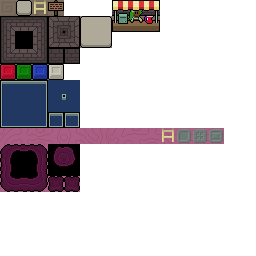
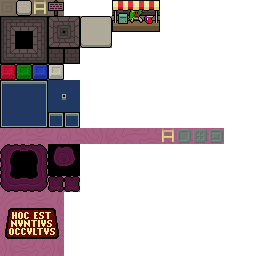
hidden message in sea monster, and repair labyrinth back door

Changed region(s): [[0.0, 0.75, 0.25, 1.0]]

diff --git a/README.md b/README.md
@@ -51,22 +51,14 @@ Requires [Egg](https://github.com/aksommerville/egg2) to build.
 - [ ] Poker at the casino. UI in place and activity ready to write.
 - [ ] Blackjack at the casino. UI in place and activity ready to write.
 - [ ] Broom Races story: I really dislike the picture for the second (?) frame: "Some witches race on their brooms".
-- [x] Credits roll and `song:bloomful_rejoicement` after strangling the last root devil. (play the cutscene first?)
-- [x] Casino arcade should pay out much less, maybe like `wager+difficulty`.
 - [ ] Some fireworks when an animal gets captured.
-- [x] `race:downstairs_lake` uses darkness and firepots in story mode. Do we want that in Broom Race mode too? We don't currently have, and it would take some doing.
-- - [x] Also the sirens in `race:seaside_circle`. And that might be a lighter lift.
-- - ...decline for darkness, but we are now spawning static sprites like siren and jigpiece.
 - [ ] Revise `race.c:race_render_overlay()` re multiplayer. Show both players' lap and time, and don't print it in the middle at the end.
-- [x] Settings modal, via Hello.
-- [x] Roll credits via Hello.
-- [x] Add some match vendors downstairs.
-- [x] Once per session, before entering any 2-player mode, prompt users to tell us who is left and who is right.
 - [ ] BEFORE GDEX: Make the meadow zoo include all local rsprite. Add to the zoo or remove from rsprite, whatever, just make them match.
 - - And are there any others with dangling non-zoo rsprite?
 - [ ] If you strangle the temple's root devil last, we incorrectly play `smoke_and_mirrors` after the credit roll instead of `minotaur`. Rights itself when you go inside.
 - - Does it matter? This would be a little tricky to fix, because `g.song_override_outerworld` doesn't record the actual song doing the overriding, and we definitely do want `bloomful_rejoicement` temporarily.
 - [ ] If you collect the last jigpiece in a non-story broom race, does the cutscene play? Does the flag get set? And do we want the cutscene to play? This would be extremely unusual, but do check.
+- [ ] Some moving or at least animated things where you get the stopwatch, so you can see it work.
 
 - Challenges for Ice Palace and other bonus zones. Underworld. Back of the temple? Goblins' cave?
 - - We can really cut loose with these and make them ridiculously hard, since they'll never be mandatory.
@@ -137,7 +129,7 @@ Requires [Egg](https://github.com/aksommerville/egg2) to build.
 - [ ] cpr: It's weird how your winning stroke is Down but the patient pops Up. Can we delay his reaction or something, make it feel bouncier?
 - [ ] homerunderby: I don't like how foul tips count immediately as a Strike.
 - [ ] mindcontrol: Make a more continuous connection state, like sometimes the connection is better than others.
-- [ ] morsecode: At normal difficulty, getting every letter right should be a win, regardless of extra spaces.
+- [ ] morsecode: At normal difficulty, getting every letter right should be a win, regardless of extra spaces. Have the walrus make mistakes randomly.
 - [ ] racketeering: Badly needs more juice when you hit the ball. Consider dropping or rewriting altogether; players are really struggling with the perspective thing.
 - [ ] racketeering: Try an option for red-and-blue 3d glasses. Maybe AUX2 to toggle? That's how Rad Racer did it.
 - [ ] rescuing: Eliminate the blood and make it more cartoony somehow. Blood might put us in a harsher ratings category.
